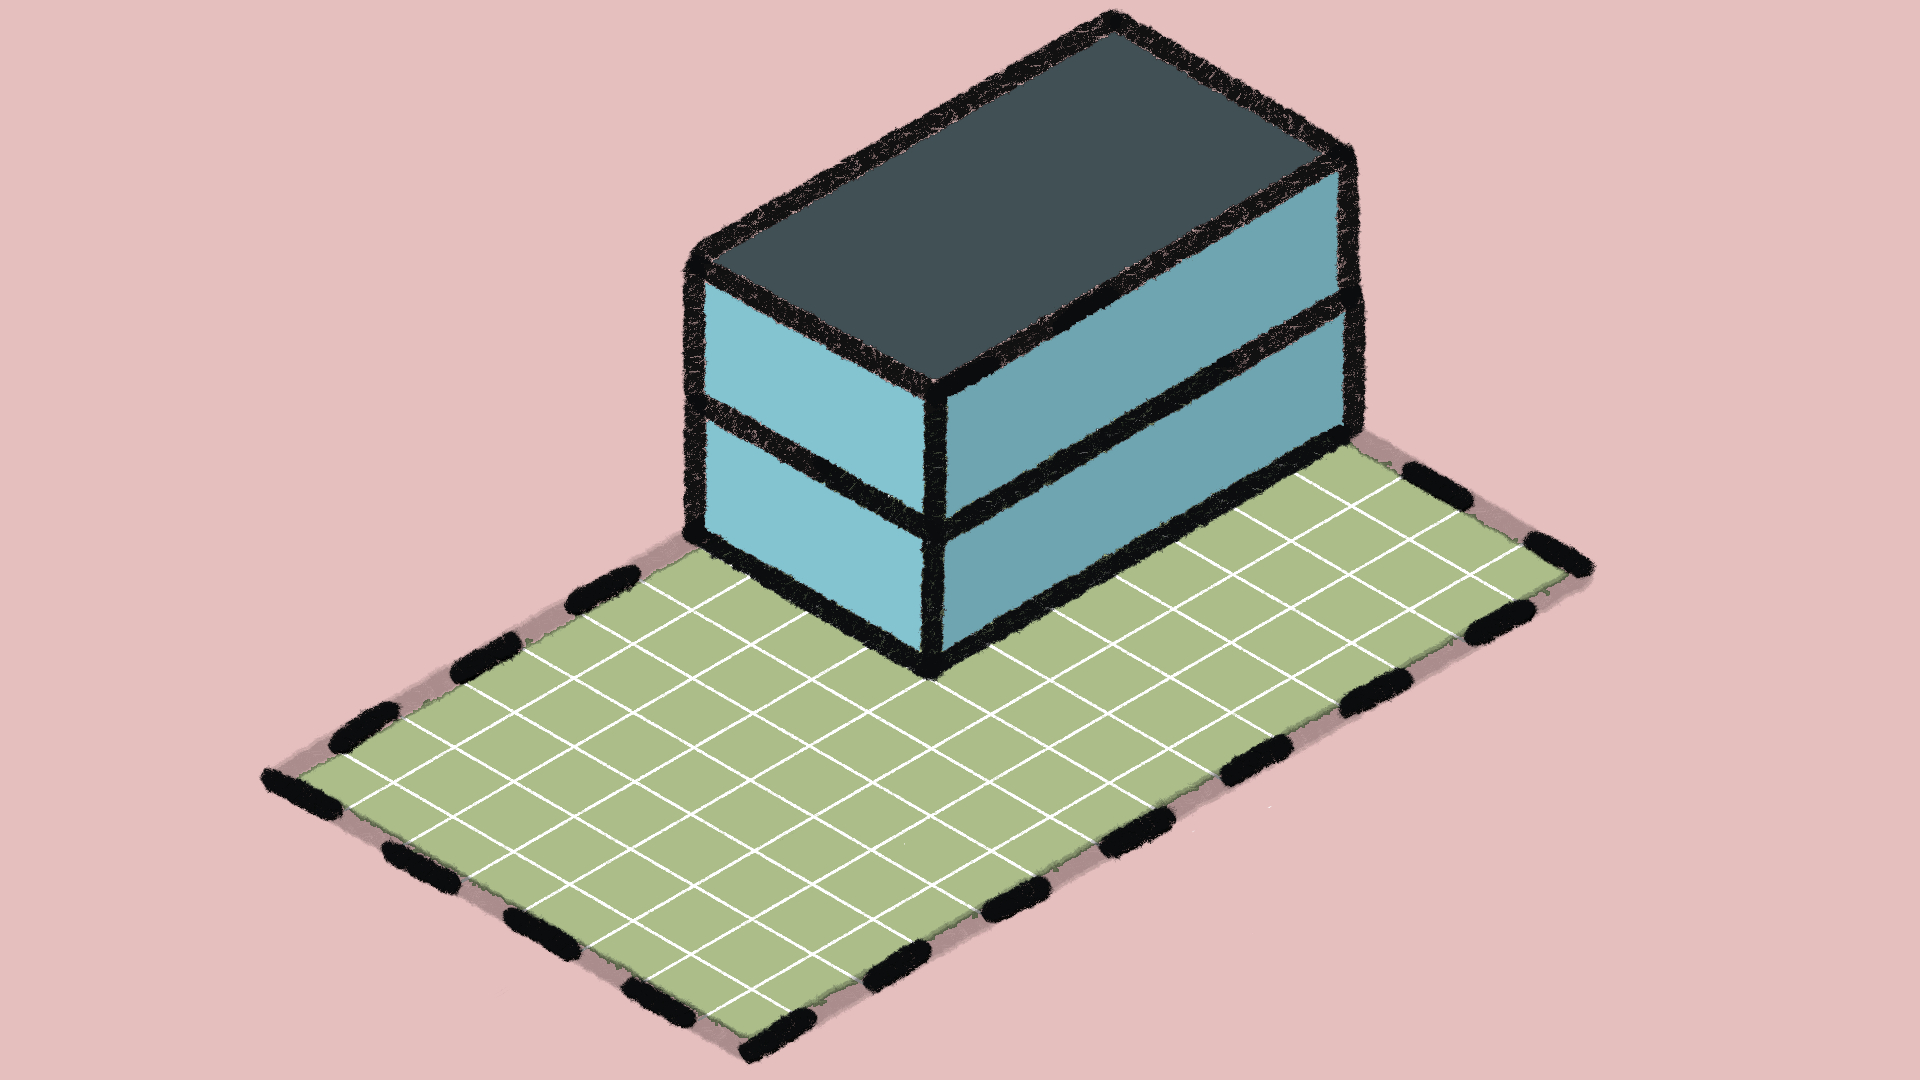
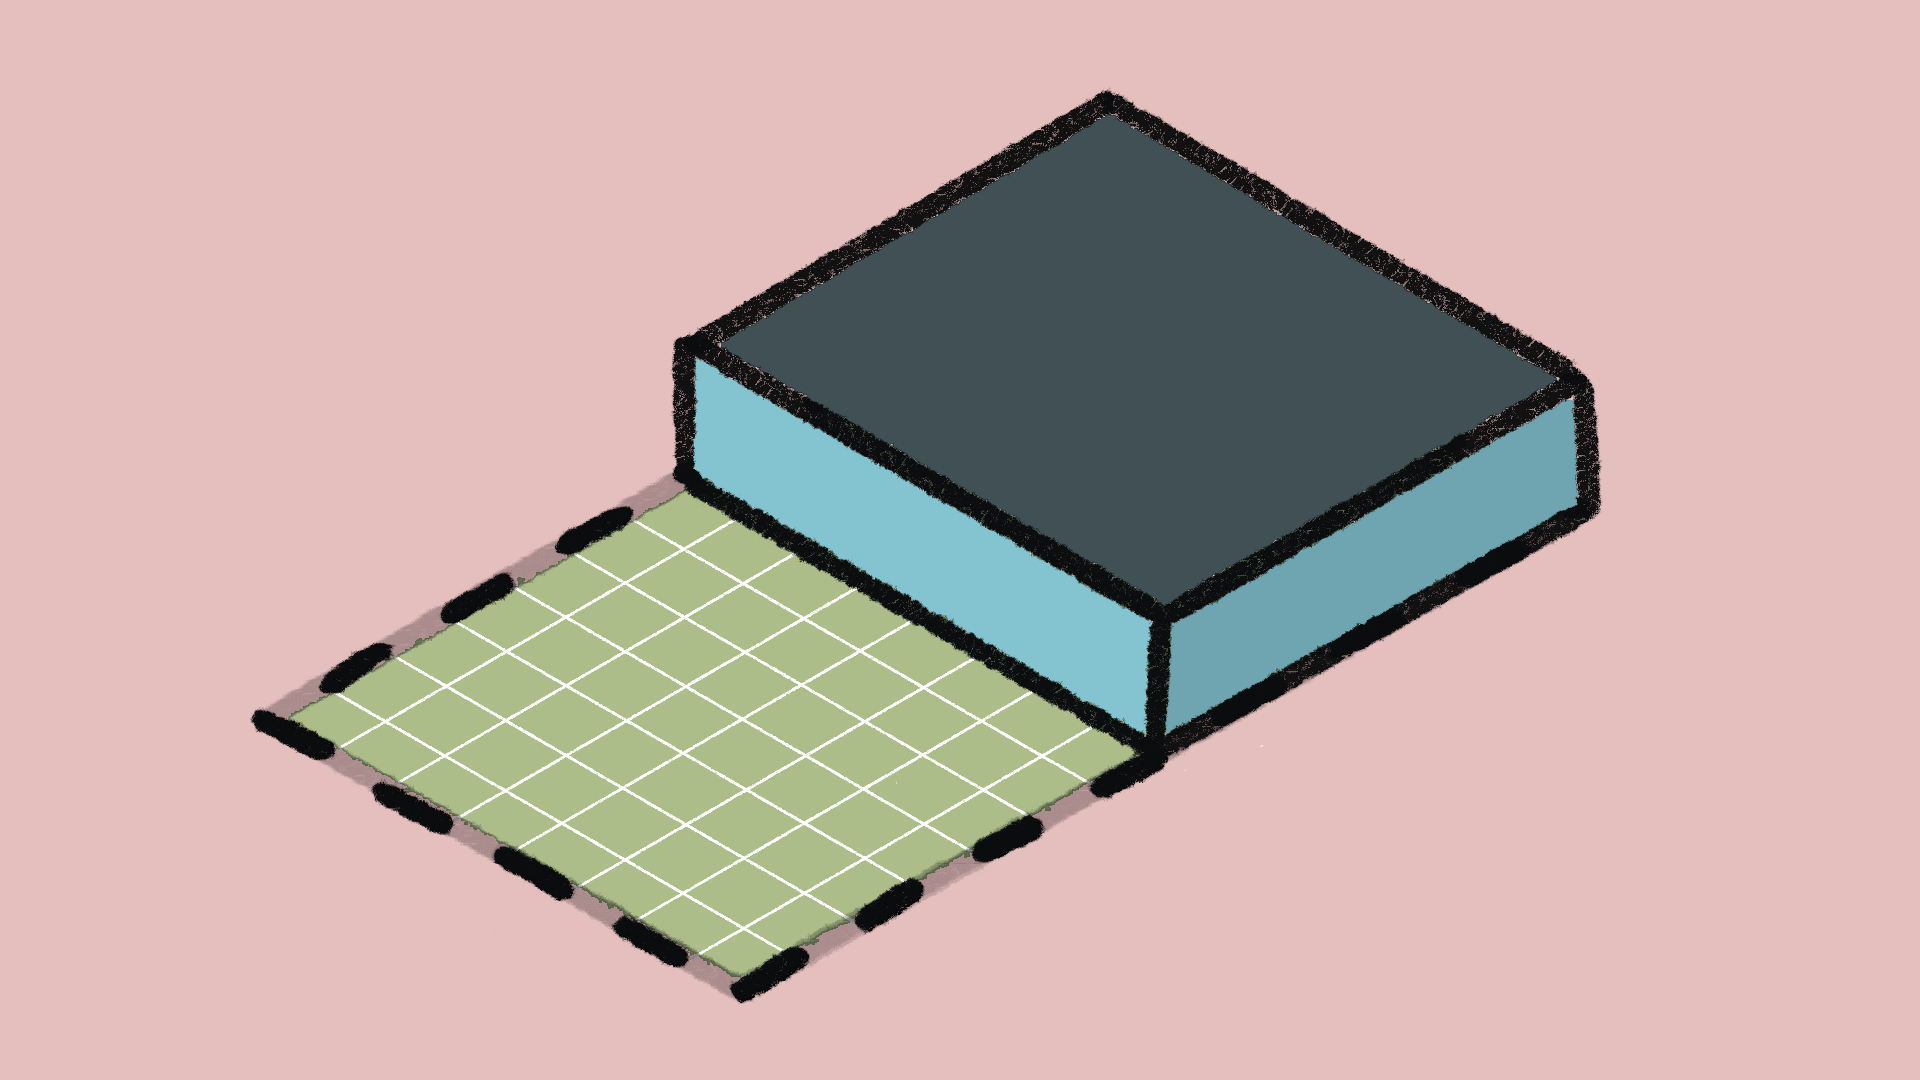
Updated trashcan and FAR explained, styled section headings

diff --git a/css/style.css b/css/style.css
@@ -5,8 +5,9 @@
     --background-color: #eaac8b;
     --divider-color: #be8c71;
     --link-hover-color: #d49b7c;
-    --text-color-light: #1f1f1f;
+    --text-color-light: #362c3d;
     --test-color-dark: #fce7ff;
+    --title-color: black;
 }
 
 .hidden {
@@ -18,6 +19,7 @@ body {
     padding: 0;
     background-color: var(--background-color);
     /* cursor: url('../assets/snake.gif'), default; */
+    color: var(--text-color-light);
 }
 
 .header {
@@ -275,6 +277,7 @@ img {
     display: flex;
     flex-direction: column;
     margin: 20px 0;
+    color: var(--title-color);
 }
 
 .article .page-title {
@@ -373,4 +376,21 @@ img {
 .article .article-content figcaption {
     padding: 5px;
     color: var(--test-color-dark);
+}
+
+.article .article-content hr {
+    border: 1px solid var(--divider-color);
+    margin: 20px 0;
+}
+
+.article .article-content h2 {
+    border-bottom: 2px solid var(--header-color);
+    color: var(--title-color);
+}
+
+.article .article-content h3 {
+    margin-bottom: 0px;
+    border-bottom: 1px solid var(--divider-color);
+    color: var(--title-color);
+
 }

diff --git a/content/writings/far.md b/content/writings/far.md
@@ -1,39 +1,54 @@
 **<span style="color: rgb(186, 55, 42);">!!!This is a work in progress draft and things may change!!!</span>**
+<!-- 
+<img src="../assets/far/neighborhood_temp.jpg" alt="neighborhood_temp.jpg" width="1000"> -->
 
-<img src="../assets/far/neighborhood_temp.jpg" alt="neighborhood_temp.jpg" width="1000">
+Two years ago the city of Sacramento approved the 2040 General Plan which proposed a new guideline for building density using Floor Area Ratio. 
 
-Floor Area Ratio (FAR) is the ratio between the floor area of the building and the lot the building sits on. For example lets look at a 2800 square foot lot, 40ft by 70ft (as seen in [Image](#FAR%20Empty.jpg)). A common lot size seen through out the older parts of Sacramento including Oak Park.
+Floor Area Ratio (FAR) is the ratio between the floor area of a building and the lot the building sits on. FAR is used by the city to designate how dense areas of the city can be. Midtown ranges from a FAR of 2-8 whereas Oak Park ranges from 2-4. The higher the FAR the more dense a place can be.
+
+In older parts of Sacramento - including Oak Park - a 2800 square foot (sqft) lot, 40” by 70” is common, being about half of the 150ft from sidewalsk to ally. (As seen in [Image](#FAR%20Empty.jpg))
 
 <img src="../assets/far/FAR%20Empty.jpg" alt="An empty lot that is 40 ft by 70 ft" width="1000" class="jop-noMdConv">
 
-Now if you were to add a 1 story, 1400 sqft building it would fill half the lot  andthe FAR would be 0.5. (As seen in [Image](#FAR%200.5.1.jpg))
+If a 2800sqft building is added to the lot the FAR would simply be 1. (As seen in [Image](#FAR%201.1.jpg))
 
-<img src="../assets/far/FAR%200.5.1.jpg" alt="A lot with a building that takes up exactly half of the area" width="1000">
+![FAR%201.1.jpg](../assets/far/FAR%201.1.jpg)
 
-But that floor area does not need to be all on one level, so you could add a two story building that covers a fourth of the lot and it would also have a FAR of 0.5. (As seen in [Image](#FAR%200.5.2.jpg))
+Alternatively if a 1 story, 1400sqft building was built on the same 2800 sqft lot, the FAR would be 0.5 because the building fits only half the lot. (As seen in [Image](#FAR%200.5.1.jpg))
 
-<img src="../assets/far/FAR%200.5.2.jpg" alt="A lot with a building that is 2 stories and takes up exactly one foruth of the lot" width="100" class="jop-noMdConv">
+![FAR%200.5.1.jpg](../assets/far/FAR%200.5.1.jpg)
 
-Though in real live we also have requirements for how close a building can be to the edge of the lot (setbacks) and normally houses don't get built jammed in the corner. So realistically you could center the building and add some features and you have a house. (As seen in [Image](#FAR%200.5.3.jpg))
+The floor area can also be spread between floors. A 1400sqft building with two 700sqft floors also has a FAR of 0.5. (As seen in [Image](#FAR%200.5.2.jpg)) 
+
+<img src="../assets/far/FAR%200.5.2.jpg" alt="A lot with a building that takes up exactly half of the area" width="1000">
+
+In the real world, buildings are rarely built into the corners of lots. Zoning has setbacks that regulate how close a building can be placed to the edge of a lot. Taking this basic rectangle, centering it, and adding some features creates a realistic view of how a house with a FAR of 0.5 would look like in real life. (As seen in [Image](#FAR%200.5.3.jpg))   
 
 <img src="../assets/far/FAR%200.5.3.jpg" alt="Two lots one with a building that takes up a fourth of the lot that is centered. The other is the same building this times decorated to look like a house" width="1000" class="jop-noMdConv">
 
-Now if you added a 2800 sqft building matching the area of the lot you would have an FAR of 1. And this could be done in many ways.  (As seen in [Image](#FAR%201.1-4.jpg))
+## More Examples
 
-<img src="../assets/far/FAR%201.1-4.jpg" alt="FAR 1.1-4.jpg" width="1000" class="jop-noMdConv">
+Below are some examples of building shapes and homes with a FAR of 1 and up. 
 
-And with some design work you can create some homes. (As seen in [Image](#FAR%201.1-5.jpg))
+### FAR 1
 
-<img src="../assets/far/FAR%201.4-5.jpg" alt="FAR 1.4-5.jpg" width="1000" class="jop-noMdConv">
+<div class="image-group" markdown="1">
 
-This continues as the FAR goes up with some examples of ways you could arrange the a building with a FAR of 2 in [Image](#FAR%202.1-8-12.jpg).
+![FAR%201.1-4.jpg](../assets/far/FAR%201.1-4.jpg)
+![FAR%201.4-5.jpg](../assets/far/FAR%201.4-5.jpg)
 
-<img src="../assets/far/FAR%202.1-8-12.jpg" alt="FAR 2.1-8-12.jpg" width="1000" class="jop-noMdConv">
+</div>
 
-And just like previously this can be made to form many different housing types as seen in [Image](#FAR%202%20houses.jpg)
+### FAR 2
 
-<img src="../assets/far/FAR%202%20houses.jpg" alt="FAR 2 houses.jpg" width="1000" class="jop-noMdConv">
+<div class="image-group" markdown="1">
 
-Of course buildings can be at any FAR level, usually the building is not designed to meet an exact FAR level but instead the FAR value is used in zoning codes as a maximum building size. So if an area was zoned with a maximum FAR of 2 you could see buildings with a FAR of anything and everything under 2. So any of the buildings I have shown so far.
+![FAR%202.1-8-12.jpg](../assets/far/FAR%202.1-8-12.jpg)
+![FAR%202.1-8-12.jpg](../assets/far/FAR%202%20houses.jpg)
 
-In my next article I will explain what this actually looks like with real buildings and how this will effect Oak Park. I will link that here once it is done, so if it isn't here it isn't ready:(
+</div>
+
+## Learn more
+
+To dive deeper into FAR and see what it looks like with real buildings check out [FAR in Real Life](#nothing)
+

diff --git a/content/projects/trash-can.md b/content/projects/trash-can.md
@@ -1,1 +1,37 @@
-In October 2025 I bought a trash can from the Oak Park Business district on Facebook Market Place for $25. I then placed it in front of my house and have since been maintaining it for the neighborhood. It gets a lot of use and the amount of trash in the area has seamingly decreased.
+In October 2025 I bought a commercial trash can from the Oak Park Business district on Facebook Marketplace for $25. I then placed it in front of my house and have since been maintaining it for the neighborhood. It gets a lot of use and the amount of trash in the area has seamingly decreased.
+
+The Oak Park Business district had so many for sale and if I knew what I had found I would have bought more and gave them to others to maintain. Soon after I saw the same trash cans being sold for over $100 on Marketplace. Someone had bought a bunch to resell.
+
+Regardless trash cans like this do pop up from time to time for sale on Craigslist or Facebook Marketplace for a decent price. So if you live in a place that gets a lot of foot traffic and are interesting in maintaining one yourself I think it is worth it.
+
+
+Please reach out if you have any questions or concerns.
+
+***
+
+![trashcan.jpg](../assets/trash.jpg)
+
+## Issues I ran into
+
+### No lock
+
+The trash can did not come with a key for the lock on it but it was unlocked. The main issue was that the door would swing open very easily. I ended up solving this with some cable ties holding the door shut. Originally I had 6 of them but this was overkill and just made changing the trash bag harder. So I pared it down to 3 and it works perfectly.
+
+### No internal can
+
+When I bought it it did not have a an internal trash can to hold the trash bag, it was just the outer metal part. I had an old metal trash can I was hoping would fit but it did not. So for the first few weeks I just tied a trash bag to the opening. This did not work well, often coming off and people would miss the opening and it would start filling up outside the bag.
+
+I tried to find the actual can that goes to this but I could not find anywhere selling it without full trashcan. I then went to Home Depot looking for trashcans that would fit and found nothing. But on my way back home I stopped at the Western Feed and Pet Supply on 34th and they had metal trash cans out front. The trash cans did not have their measurements listed but it looked right so I took the chance and it fit perfectly.
+
+### No rain guard
+
+This trash can originally had a top part that went over the top that effectively blocked rain from getting into the can. I don't know if this part also has other uses or a name but it didn't have one of these with it. So when it rained the bag and internal can would fill up with water and become super heavy and gross. One time the bottom of the bag blew out because of this. Covering everything with trash water.
+
+I solved this by drilling holes in the bottom of the internal can and adding a small hole to the bag in the rainy season. Since I have not had an issue with more than a little bit of water pooling in the bottom of the bag.
+
+### The trash bag kept falling
+
+The last issue I ran into was that the trash bag kept falling off the trash can and getting pilled under trash. I first tried a larger trash bag and this did help a bit but it would still fall off over time. Eventually I realized the internal trashcan had handles on the side and I could tie the trash bag ties to them and this completely solved the issue. I could even use the smaller trash bags again with no issue.
+
+Since then I have not had any issues and maintaining it has been as easy as taking it out when it fills.
+
